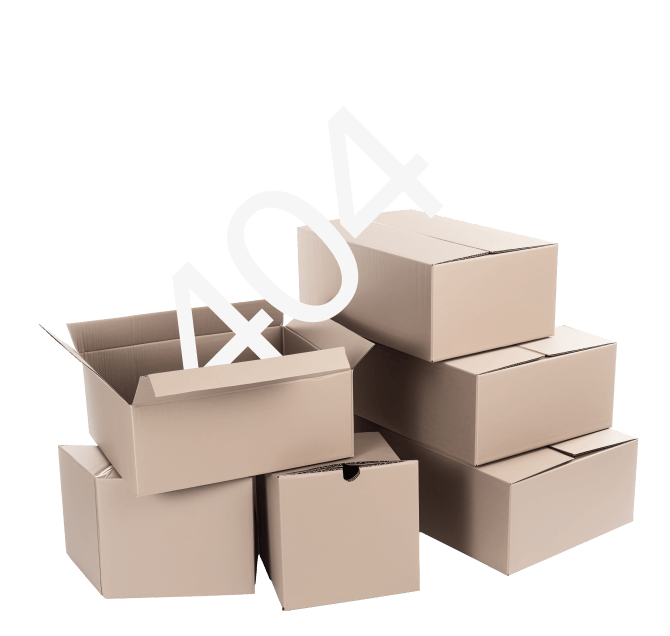
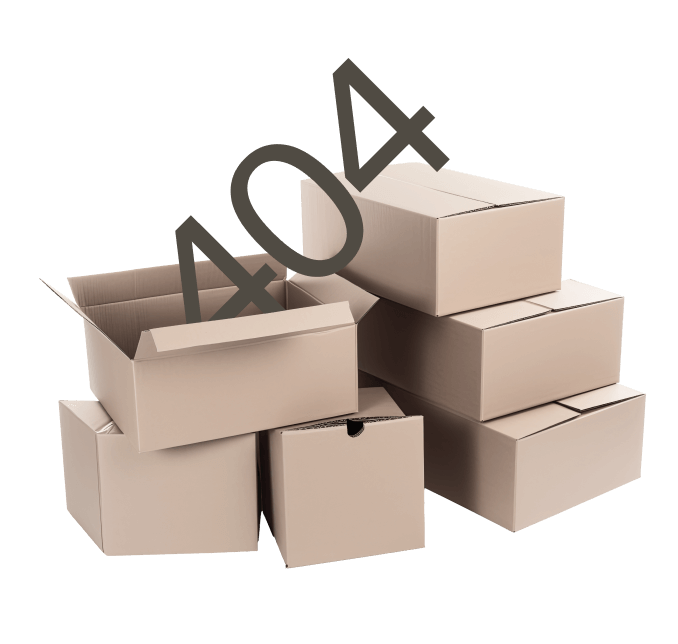
map API change

diff --git a/src/assets/styles/assets/loader.scss b/src/assets/styles/assets/loader.scss
@@ -48,7 +48,7 @@
   transition: transform 0.6s ease-in-out;
 
   p {
-    color: $accent-color;
+    color: $bc;
     font-size: 12px;
     font-style: normal;
     font-weight: 400;
@@ -80,7 +80,8 @@
   align-items: flex-end;
 
   p {
-    color: $accent-color;
+    text-transform: uppercase;
+    color: $bc;
     animation: load-pulse 1.5s ease infinite;
   }
 }
@@ -120,14 +121,16 @@
   .colored-track {
     height: 2px;
     width: 100%;
-    background: linear-gradient(90deg, #E7FD6B 0%, #06C971 100%);
+    // background: rgba(205, 200, 188, 1) ;
+    background:   rgba(205, 200, 188, 1);
   }
 
   .colored-gradient {
-    height: 47px;
+    height: 67px;
     width: 100%;
     // opacity: 0.5;
-    background: linear-gradient(90deg, #e7fd6b86 0%, #06c9717e 100%);
+    background: rgba(205, 200, 188, 1) ;
+    // background: linear-gradient(90deg, #e7fd6b86 0%, #06c9717e 100%);
     position: relative;
 
     &::before {
@@ -138,7 +141,7 @@
       z-index: 1;
       height: 100%;
       width: 100%;
-      background: linear-gradient(-2deg, #06c97100 0%, $bg-color-2 27.68%, $bg-color-2 50.17%);
+      background: linear-gradient(-1deg, #06c97100 0%, $bg-color-2 27.68%, $bg-color-2 50.17%);
     }
 
     @include tablet {

diff --git a/src/assets/scripts/modules/map/map.js b/src/assets/scripts/modules/map/map.js
@@ -11,7 +11,7 @@ export default function googleMap() {
 // Google map start
 async function func() {
   const script = document.createElement('script');
-  let key = 'AIzaSyCaYQ83EA9peTsEI6ih6cUc6uaCjn080qE';
+  let key = 'AIzaSyCoHHkCQiBAZYtPKEsG23r0DINku8X58cc';
   // if (window.location.href.match(/localhost/)) key = '';
   script.src = `https://maps.googleapis.com/maps/api/js?key=${key}&callback=initMap&language=ua`;
   document.getElementsByTagName('head')[0].appendChild(script);
@@ -47,8 +47,8 @@ function initMap() {
   //   lat: 49.2281012,
   //   lng: 28.3925433,
   // };
-  const lat = window.innerWidth < 768 ? 49.4381135 : 49.437254;
-  const lng = window.innerWidth < 768 ? 32.0933513 : 32.096053;
+  const lat = window.innerWidth < 768 ? 49.4381135 : 49.4389;
+  const lng = window.innerWidth < 768 ? 32.0933513 : 32.0949;
   const center = {
     lat,
     lng,

diff --git a/src/assets/scripts/gulp-modules/index.js b/src/assets/scripts/gulp-modules/index.js
@@ -363,8 +363,8 @@ function aboutAnim() {
         end: 'bottom top', // Коли закінчується
         scrub: true, // Плавна анімація
         // markers: true,
-        pin: '.about-wrap', // Затримка (пінінг) блока
-        // pin: '.about__anim-svg', // Затримка (пінінг) блока
+        // pin: '.about-wrap', // Затримка (пінінг) блока
+        pin: '.about__anim-svg', // Затримка (пінінг) блока
         onLeaveBack: () => {
           // aboutImg.reverse();
         },

diff --git a/src/assets/styles/404.scss b/src/assets/styles/404.scss
@@ -5,7 +5,7 @@
     padding-bottom: 60px;
     height: 100%;
     width: 100%;
-    background-image: url('../images/menu-bg.jpg');
+    background: url('../images/404-bg.png'), $bg-color;
     background-size: cover;
     background-position: center;
     background-repeat: no-repeat;
@@ -15,7 +15,7 @@
     // }
 
     @include laptop {
-        background-image: url('../images/menu-bg-pc.jpg');
+       
         padding-top: 0px;
     }
 

diff --git a/src/assets/styles/pages/about.scss b/src/assets/styles/pages/about.scss
@@ -423,11 +423,11 @@
       width: 100%;
       @include general-text;
       color: $bc;
-      padding: 40px 20px 80px;
+      padding: 60px 20px 80px;
       background: linear-gradient(180deg, rgba(205, 200, 188, 0.00) 0%, rgba(205, 200, 188, 0.80) 35%, #CDC8BC 100%);
 
       @include tablet {
-        padding: 40px 40px 100px;
+        padding: 60px 40px 100px;
       }
     }
   }
